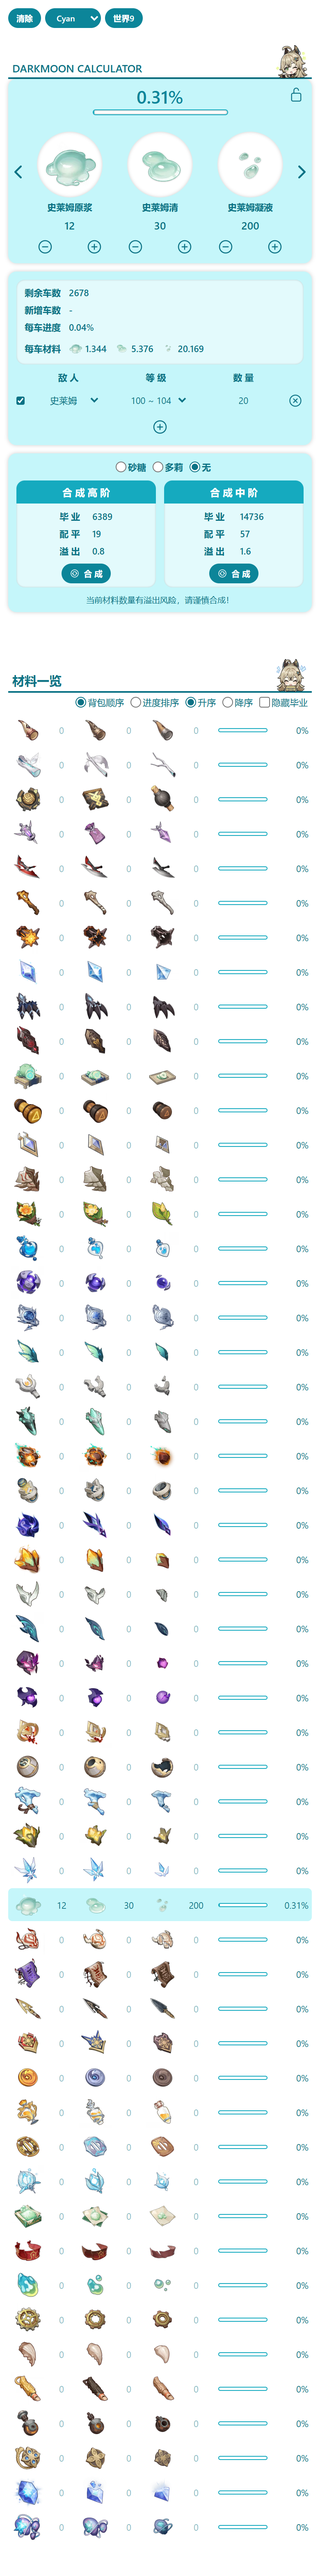
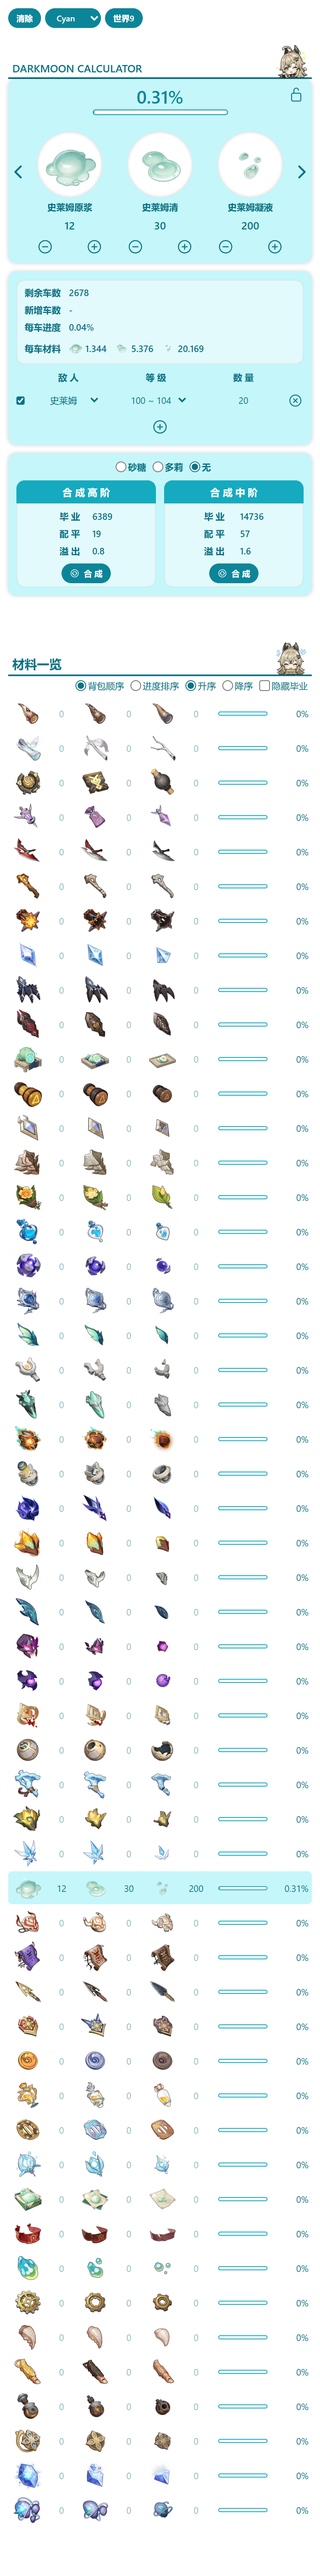
移除溢出风险提示
删掉合成面板底部的「当前材料数量有溢出风险，请谨慎合成！」，以及支撑它的判断逻辑。

- computeCraftStats 去掉 risky 字段（原本是 低阶/3 > 配平中阶 或 中阶/3 > 配平高阶）
- CraftSection 去掉对应的提示行
- 合成区块里的「溢 出」数值是另一回事（相对 9999 的超出量），保留不变
- README 功能对照表同步：去掉「与溢出风险提示」的表述

diff --git a/src/domain/calculator.ts b/src/domain/calculator.ts
@@ -118,8 +118,6 @@ export interface CraftStatsResult {
   complete: [number, number];
   /** 「溢出」[低阶占位, 中阶, 高阶] */
   overflow: Triplet<number>;
-  /** 材料数量是否存在溢出风险 */
-  risky: boolean;
 }
 
 /**
@@ -148,10 +146,7 @@ export function computeCraftStats(params: {
   const overflow = calc.overflow(sucroseBonus, doriBonus);
   const complete: [number, number] = [calc.craftCount[0], calc.craftCount[1]];
 
-  const risky =
-    Math.trunc(numbers[0] / 3) > even[0] || Math.trunc(numbers[1] / 3) > even[1];
-
-  return { even, complete, overflow, risky };
+  return { even, complete, overflow };
 }
 
 /**

diff --git a/src/components/CraftSection.tsx b/src/components/CraftSection.tsx
@@ -133,12 +133,6 @@ export function CraftSection() {
         overflow={craftStats.overflow[1]}
         onCraft={() => handleCraft(0)}
       />
-
-      {craftStats.risky && (
-        <p className="col-span-2 text-center text-[10px]">
-          当前材料数量有溢出风险，请谨慎合成！
-        </p>
-      )}
     </section>
   );
 }

diff --git a/README.md b/README.md
@@ -111,7 +111,7 @@ const { setNumberAt, stepNumber } = useDarkmoonActions();
 | 每车材料、每车进度、剩余车数 | `computeEnemyStats` | ✅ |
 | 世界等级 9 加成（Lv.105 区间 ×1.5，其余 ×1.25） | `Calculator.setEnemies` | ✅ |
 | 合成高阶 / 中阶：毕业 / 配平 / 溢出 | `computeCraftStats` | ✅ |
-| 砂糖 / 多莉 / 无 加成与溢出风险提示 | `CraftSection` | ✅ |
+| 砂糖 / 多莉 / 无 合成加成 | `CraftSection` | ✅ |
 | 材料一览：背包顺序 / 进度排序 + 升序降序 + 隐藏毕业 | `MaterialList` | ✅ |
 | 点击清单行切换材料并回到顶部 | `selectMaterial` | ✅ |
 | 13 套配色主题 | `data-theme` + Tailwind `@theme inline` | ✅ |
@@ -415,6 +415,12 @@ Windows 上编辑器写临时文件时被文件监视器锁住。`vite.config.ts
 - 把左侧标题改成与右侧表头同构的 `<header>`（同样 5px 内边距、2px 下划线、40px 图标），
   两条下划线自然落在同一条水平线上，下面的面板和列表也从同一 Y 开始。
 - 实测：两个表头高度都是 52px、底边都在 y=96，左侧面板顶部也是 96（原来是 84）。
+
+### 2026-11-20 · 移除溢出风险提示
+
+- 删掉合成面板底部那行「当前材料数量有溢出风险，请谨慎合成！」，以及 `computeCraftStats`
+  里支撑它的 `risky` 字段（`Math.trunc(低/3) > 配平中阶 || Math.trunc(中/3) > 配平高阶`）。
+- 合成区块里的「溢 出」数值是另一回事（相对 9999 的超出量），保留不变。
 
 ### 2026-11-20 · 材料一览高亮当前材料
 
